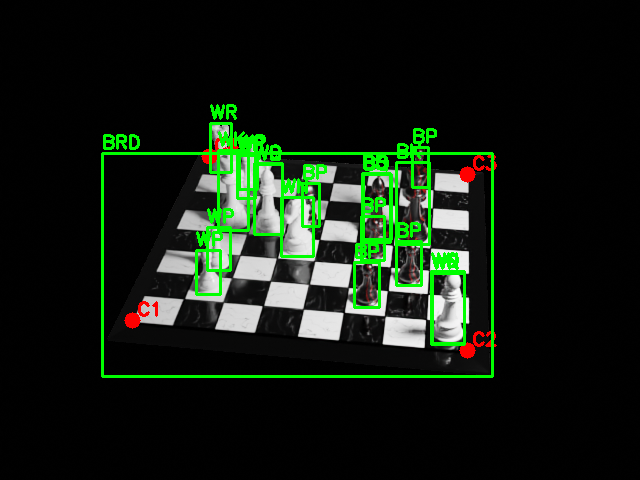
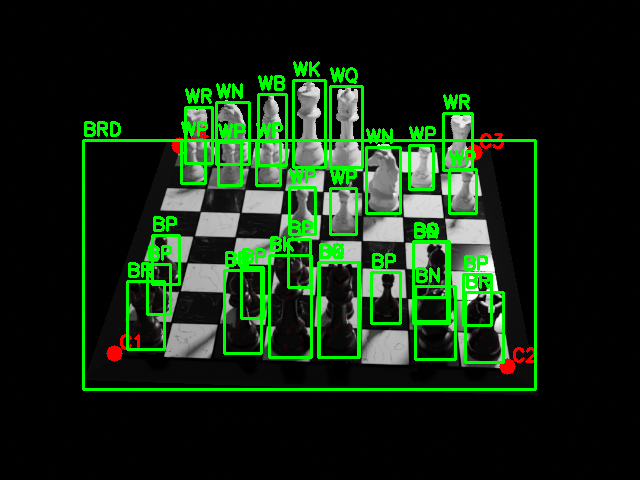
everything

Changed region(s): [[0.125, 0.125, 0.8438, 0.8125]]

diff --git a/combined_model/predict_board.py b/combined_model/predict_board.py
@@ -64,7 +64,7 @@ def convert_yolo_to_bbox_dict(yolo_result, class_names):
 # ------------------ Main Logic ------------------
 if __name__ == "__main__":
     # Input
-    example_image_path = "samples/000571.png"
+    example_image_path = "samples/000069.png"
     model_path = "models/train4/weights/best.pt"
     model = YOLO(model_path)
 
